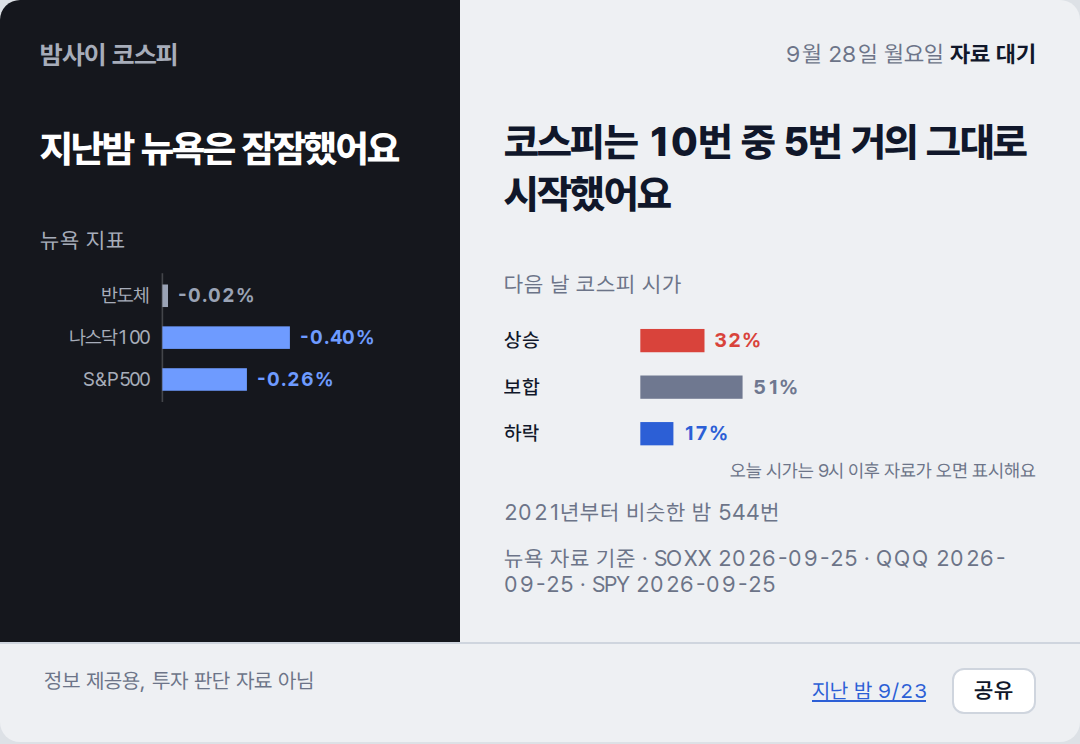
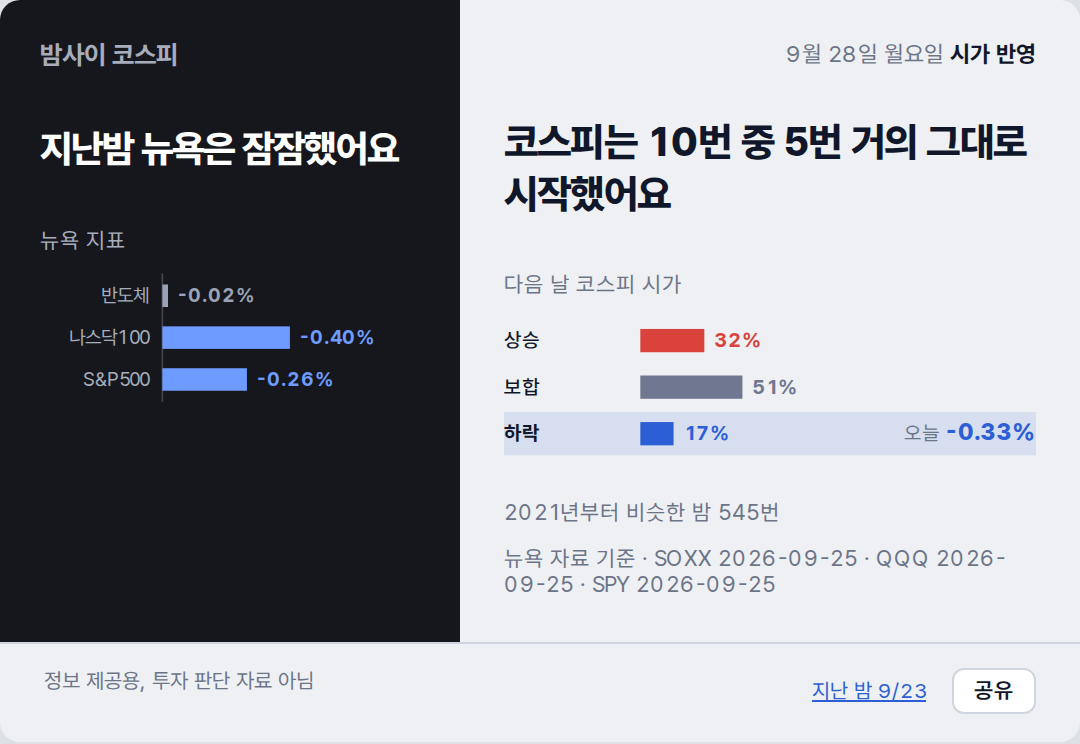
deploy: c0d07a214321b41f7cf333fef670b17ffe5b5852

diff --git a/2026-09-28/index.html b/2026-09-28/index.html
@@ -38,18 +38,19 @@ footer a{color:#2C5FD6}
 <rect x="76" y="61" width="52.5" height="14" fill="var(--down)"/>
 <text x="134.5" y="72" fill="var(--down)" font-weight="700">-0.26%</text>
 </svg></section>
-<section class="day"><p class="stamp">9월 28일 월요일 <b>자료 대기</b></p><p class="claim">코스피는 10번 중 5번 거의 그대로 시작했어요</p><p class="lab">다음 날 코스피 시가</p><svg viewBox="0 0 320 100" xmlns="http://www.w3.org/2000/svg" font-family="var(--sans)" font-size="12">
+<section class="day"><p class="stamp">9월 28일 월요일 <b>시가 반영</b></p><p class="claim">코스피는 10번 중 5번 거의 그대로 시작했어요</p><p class="lab">다음 날 코스피 시가</p><svg viewBox="0 0 320 100" xmlns="http://www.w3.org/2000/svg" font-family="var(--sans)" font-size="12">
 <text x="0" y="20" fill="var(--ink)" font-weight="500">상승</text>
-<rect x="82" y="9" width="38.6" height="14" fill="var(--up)"/>
-<text x="126.6" y="20" fill="var(--up)" font-weight="700">32%</text>
+<rect x="82" y="9" width="38.5" height="14" fill="var(--up)"/>
+<text x="126.5" y="20" fill="var(--up)" font-weight="700">32%</text>
 <text x="0" y="48" fill="var(--ink)" font-weight="500">보합</text>
-<rect x="82" y="37" width="61.5" height="14" fill="var(--flat)"/>
-<text x="149.5" y="48" fill="var(--flat)" font-weight="700">51%</text>
-<text x="0" y="76" fill="var(--ink)" font-weight="500">하락</text>
-<rect x="82" y="65" width="19.9" height="14" fill="var(--down)"/>
-<text x="107.9" y="76" fill="var(--down)" font-weight="700">17%</text>
-<text x="320" y="98" text-anchor="end" fill="var(--muted)" font-size="11">오늘 시가는 9시 이후 자료가 오면 표시해요</text>
-</svg><p class="cap">2021년부터 비슷한 밤 544번</p><p class="cap">뉴욕 자료 기준 · SOXX 2026-09-25 · QQQ 2026-09-25 · SPY 2026-09-25</p></section>
+<rect x="82" y="37" width="61.4" height="14" fill="var(--flat)"/>
+<text x="149.4" y="48" fill="var(--flat)" font-weight="700">51%</text>
+<rect x="0" y="59" width="320" height="26" fill="var(--down)" opacity=".12"/>
+<text x="0" y="76" fill="var(--ink)" font-weight="700">하락</text>
+<rect x="82" y="65" width="20.0" height="14" fill="var(--down)"/>
+<text x="108.0" y="76" fill="var(--down)" font-weight="700">17%</text>
+<text x="320" y="76" text-anchor="end" fill="var(--ink)"><tspan fill="var(--muted)">오늘 </tspan><tspan font-weight="800" font-size="14" fill="var(--down)">-0.33%</tspan></text>
+</svg><p class="cap">2021년부터 비슷한 밤 545번</p><p class="cap">뉴욕 자료 기준 · SOXX 2026-09-25 · QQQ 2026-09-25 · SPY 2026-09-25</p></section>
 <footer><span>정보 제공용, 투자 판단 자료 아님</span><span style="white-space:nowrap"><a href="../2026-09-23/">지난 밤 9/23</a> <button class="share" type="button">공유</button></span></footer>
 <script>
 /* 공유: Web Share가 있으면 시스템 공유 시트, 없으면 링크 복사. 링크는 이 날짜 페이지(OG 카드 붙음) */

diff --git a/index.html b/index.html
@@ -38,18 +38,19 @@ footer a{color:#2C5FD6}
 <rect x="76" y="61" width="52.5" height="14" fill="var(--down)"/>
 <text x="134.5" y="72" fill="var(--down)" font-weight="700">-0.26%</text>
 </svg></section>
-<section class="day"><p class="stamp">9월 28일 월요일 <b>자료 대기</b></p><p class="claim">코스피는 10번 중 5번 거의 그대로 시작했어요</p><p class="lab">다음 날 코스피 시가</p><svg viewBox="0 0 320 100" xmlns="http://www.w3.org/2000/svg" font-family="var(--sans)" font-size="12">
+<section class="day"><p class="stamp">9월 28일 월요일 <b>시가 반영</b></p><p class="claim">코스피는 10번 중 5번 거의 그대로 시작했어요</p><p class="lab">다음 날 코스피 시가</p><svg viewBox="0 0 320 100" xmlns="http://www.w3.org/2000/svg" font-family="var(--sans)" font-size="12">
 <text x="0" y="20" fill="var(--ink)" font-weight="500">상승</text>
-<rect x="82" y="9" width="38.6" height="14" fill="var(--up)"/>
-<text x="126.6" y="20" fill="var(--up)" font-weight="700">32%</text>
+<rect x="82" y="9" width="38.5" height="14" fill="var(--up)"/>
+<text x="126.5" y="20" fill="var(--up)" font-weight="700">32%</text>
 <text x="0" y="48" fill="var(--ink)" font-weight="500">보합</text>
-<rect x="82" y="37" width="61.5" height="14" fill="var(--flat)"/>
-<text x="149.5" y="48" fill="var(--flat)" font-weight="700">51%</text>
-<text x="0" y="76" fill="var(--ink)" font-weight="500">하락</text>
-<rect x="82" y="65" width="19.9" height="14" fill="var(--down)"/>
-<text x="107.9" y="76" fill="var(--down)" font-weight="700">17%</text>
-<text x="320" y="98" text-anchor="end" fill="var(--muted)" font-size="11">오늘 시가는 9시 이후 자료가 오면 표시해요</text>
-</svg><p class="cap">2021년부터 비슷한 밤 544번</p><p class="cap">뉴욕 자료 기준 · SOXX 2026-09-25 · QQQ 2026-09-25 · SPY 2026-09-25</p></section>
+<rect x="82" y="37" width="61.4" height="14" fill="var(--flat)"/>
+<text x="149.4" y="48" fill="var(--flat)" font-weight="700">51%</text>
+<rect x="0" y="59" width="320" height="26" fill="var(--down)" opacity=".12"/>
+<text x="0" y="76" fill="var(--ink)" font-weight="700">하락</text>
+<rect x="82" y="65" width="20.0" height="14" fill="var(--down)"/>
+<text x="108.0" y="76" fill="var(--down)" font-weight="700">17%</text>
+<text x="320" y="76" text-anchor="end" fill="var(--ink)"><tspan fill="var(--muted)">오늘 </tspan><tspan font-weight="800" font-size="14" fill="var(--down)">-0.33%</tspan></text>
+</svg><p class="cap">2021년부터 비슷한 밤 545번</p><p class="cap">뉴욕 자료 기준 · SOXX 2026-09-25 · QQQ 2026-09-25 · SPY 2026-09-25</p></section>
 <footer><span>정보 제공용, 투자 판단 자료 아님</span><span style="white-space:nowrap"><a href="./2026-09-23/">지난 밤 9/23</a> <button class="share" type="button">공유</button></span></footer>
 <script>
 /* 공유: Web Share가 있으면 시스템 공유 시트, 없으면 링크 복사. 링크는 이 날짜 페이지(OG 카드 붙음) */
